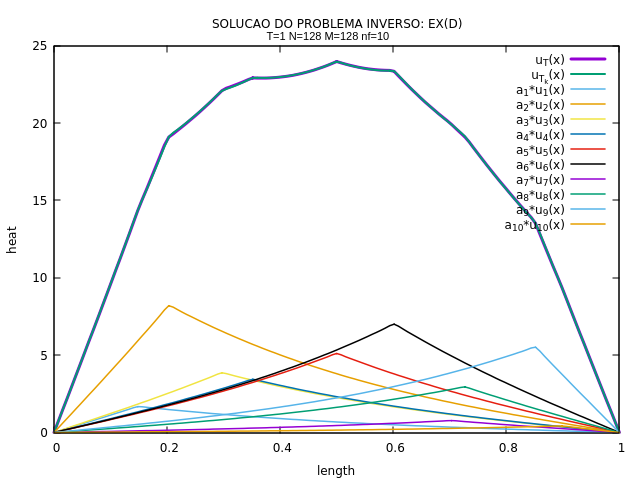
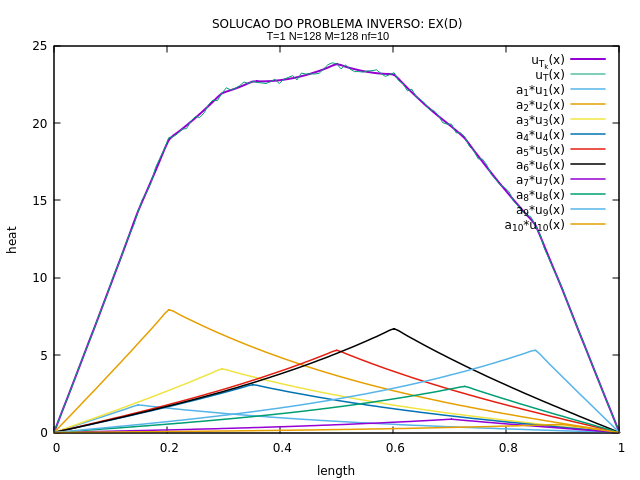
Fix noise generation and replot some graphs

diff --git a/EP2/programa/plot/src_linux/linux_plot.c b/EP2/programa/plot/src_linux/linux_plot.c
@@ -83,15 +83,24 @@ int			main(int argc, char *argv[])
 	fprintf(gnuplot, "set ylabel 'heat' \n");
 	fprintf(gnuplot, "set style line 2 lt 2 \n");
 	started = false;
-	if (options & 0b00000001)
+	if (ex == 'd' && options & 0b00000010)
 	{	
 		if (started)
-			fprintf(gnuplot, ", '%s' u 1:2 w l lw 3 title 'u_T(x)'", file);
+			fprintf(gnuplot, ", '%s' u 1:3 w l lc 9 lw 2 title 'u_T__k(x)'", file);
 		else
-			fprintf(gnuplot, "plot '%s' u 1:2 w l lw 3 title 'u_T(x)'", file);
+			fprintf(gnuplot, "plot '%s' u 1:3 w l lc 9 lw 2 title 'u_T__k(x)'", file);
 		started = true;
 	}
-	if (options & 0b00000010)
+	if (options & 0b00000001)
+	{
+		double lw = (ex == 'd' ? 1 : 3);
+		if (started)
+			fprintf(gnuplot, ", '%s' u 1:2 w l lw %f title 'u_T(x)'", file, lw);
+		else
+			fprintf(gnuplot, "plot '%s' u 1:2 w l lw %f title 'u_T(x)'", file, lw);
+		started = true;
+	}
+	if (ex != 'd' && options & 0b00000010)
 	{	
 		if (started)
 			fprintf(gnuplot, ", '%s' u 1:3 w l lt 2 lw 2 title 'u_T__k(x)'", file);

diff --git a/EP2/programa/src/set_uT.c b/EP2/programa/src/set_uT.c
@@ -48,10 +48,8 @@ static double	set_noise(double x)
 	double	e;
 	double	noisy;
 
-	srand(time(0));
 	e = 0.01;
 	r = ((2.0 / (double)RAND_MAX) * rand()) - 1.0;
-	//noisy = x + (r * e);
 	noisy = x * (1.0 + (r * e));
 	return (noisy);
 }

diff --git a/EP2/programa/src/main.c b/EP2/programa/src/main.c
@@ -18,7 +18,8 @@ int			main(void)
 {
 	heat	u;
 	data	info;
-
+	
+	srand(time(0));
 	user_input(&info);
 	process_info(&u, &info);
 	crank_nicolson(&u, &info);
